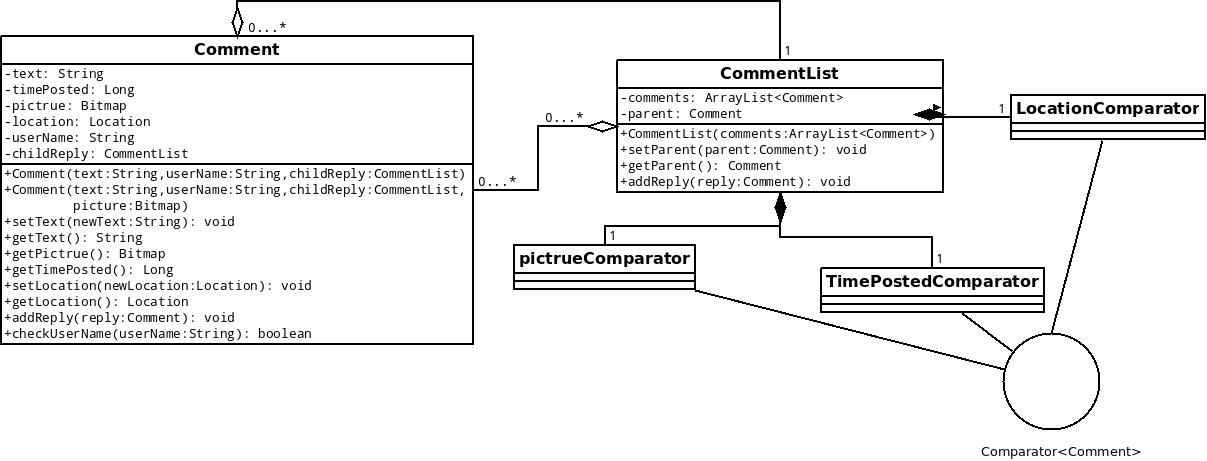
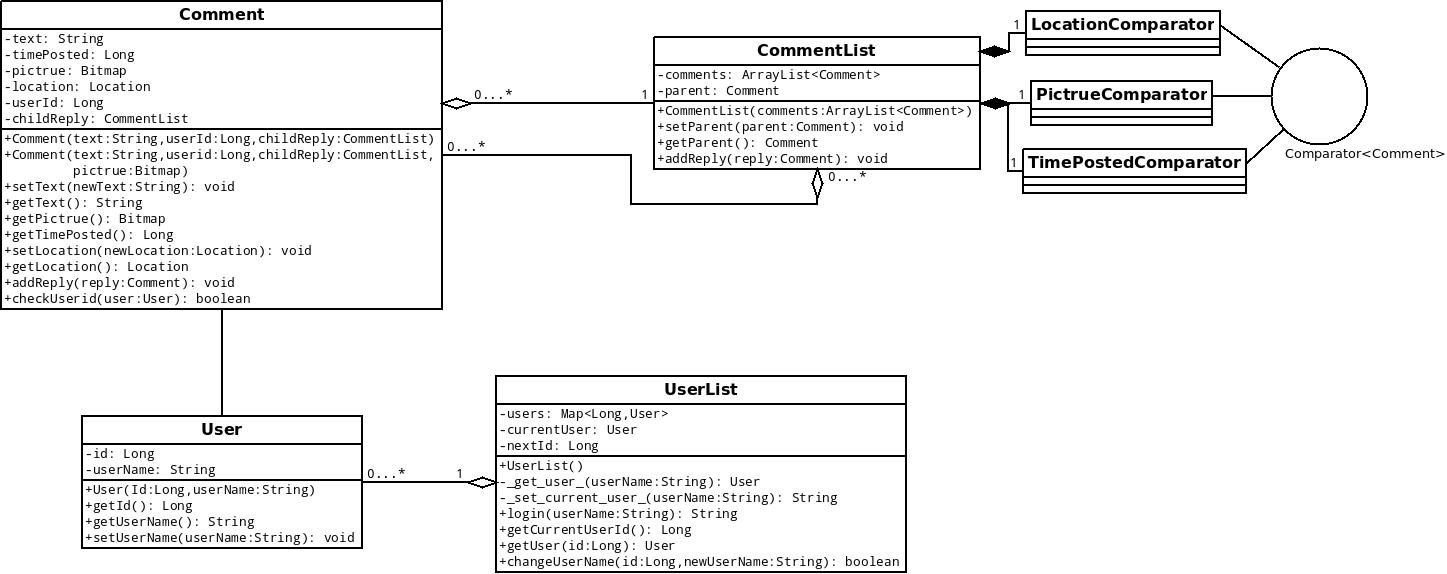
added 2 new classes

diff --git a/App/src/com/example/projectapp/Comment.java b/App/src/com/example/projectapp/Comment.java
@@ -12,24 +12,24 @@ public class Comment{
 	private Long timePosted=null;
 	private Bitmap picture=null;
 	private Location location=null;
-	private String userName=null;
+	private Long userId=null;
 	private CommentList childReply=null;
 	
 	//Methods:
 	
 	//Constructors:
-	public Comment(String text,String userName){
+	public Comment(String text,Long userId){
 		this.text=text;
-		this.userName=userName;
+		this.userId=userId;
 		this.timePosted=(new Date()).getTime();
 		//this.location=getCurrentLocation;
 		this.childReply=new CommentList();
 		this.childReply.setParent(this);
 	}
 	
-	public Comment(String text,String userName,Bitmap picture){
+	public Comment(String text,Long userId,Bitmap picture){
 		this.text=text;
-		this.userName=userName;
+		this.userId=userId;
 		this.timePosted=(new Date()).getTime();
 		//this.location=getCurrentLocation;
 		this.picture=picture;
@@ -38,18 +38,18 @@ public class Comment{
 	}
 	
 	//Constructor with extra parameters:
-	public Comment(String text,String userName,CommentList childReply){
+	public Comment(String text,Long userId,CommentList childReply){
 		this.text=text;
-		this.userName=userName;
+		this.userId=userId;
 		this.timePosted=(new Date()).getTime();
 		//this.location=getCurrentLocation;
 		this.childReply=childReply;
 		this.childReply.setParent(this);
 	}
 	
-	public Comment(String text,String userName,Bitmap picture,CommentList childReply){
+	public Comment(String text,Long userId,Bitmap picture,CommentList childReply){
 		this.text=text;
-		this.userName=userName;
+		this.userId=userId;
 		this.timePosted=(new Date()).getTime();
 		//this.location=getCurrentLocation;
 		this.picture=picture;
@@ -88,13 +88,12 @@ public class Comment{
 	}
 	
 	//Operations:
-	
 	public void addReply(Comment newReply){
 		this.childReply.addReply(newReply);
 	}
 	
-	public boolean checkUserName(String userName){
-		if((this.userName).equals(userName)){
+	public boolean checkUserId(User user){
+		if(this.userId==user.getId()){
 			return true;
 		}
 		else{

diff --git a/App/src/com/example/projectapp/UserList.java b/App/src/com/example/projectapp/UserList.java
@@ -1,0 +1,64 @@
+package com.example.projectapp;
+
+import java.util.HashMap;
+import java.util.Map;
+
+
+public class UserList{
+	private Map<Long,User> users=null;
+	private User currentUser=null;
+	private Long nextId=null;
+	
+	public UserList(){
+		this.users=new HashMap<Long,User>();
+		this.nextId=(long)0;
+	}
+	
+	private User _get_user_(String userName){
+		User current=null;
+		for(Map.Entry<Long,User> pair: users.entrySet()){
+			current=pair.getValue();
+			if(current.getUserName().equals(userName)){
+				return current;
+			}
+		}
+		return null;
+	}
+	
+	private String _set_current_user_(String userName){
+		User target=this._get_user_(userName);
+		if(target==null){
+			User newUser=new User(this.nextId,userName);
+			this.users.put(this.nextId,newUser);
+			this.currentUser=newUser;
+			this.nextId++;
+			return "CREATE";
+		}
+		else{
+			this.currentUser=target;
+			return "ACCESS";
+		}
+	}
+	
+	public String login(String userName){
+		String tag=this._set_current_user_(userName);
+		return tag;
+	}
+	
+	public Long getCurrentUserId(){
+		return this.currentUser.getId();
+	}
+	
+	public User getUser(Long id){
+		return this.users.get(id);
+	}
+	
+	public boolean changeUserName(Long id,String userName){
+		if(this._get_user_(userName)==null){
+			this.users.get(id).setUserName(userName);
+			return true;
+		}
+		return false; // note: it may be the same name as before in this case.
+	}
+
+}

diff --git a/App/src/com/example/projectapp/User.java b/App/src/com/example/projectapp/User.java
@@ -1,0 +1,24 @@
+package com.example.projectapp;
+
+
+public class User{
+	private Long id=null;
+	private String userName=null;
+	
+	public User(Long id,String userName){
+		this.id=id;
+		this.userName=userName;
+	}
+	
+	public Long getId(){
+		return this.id;
+	}
+	
+	public void setUserName(String userName){
+		this.userName=userName;
+	}
+	
+	public String getUserName(){
+		return this.userName;
+	}
+}
